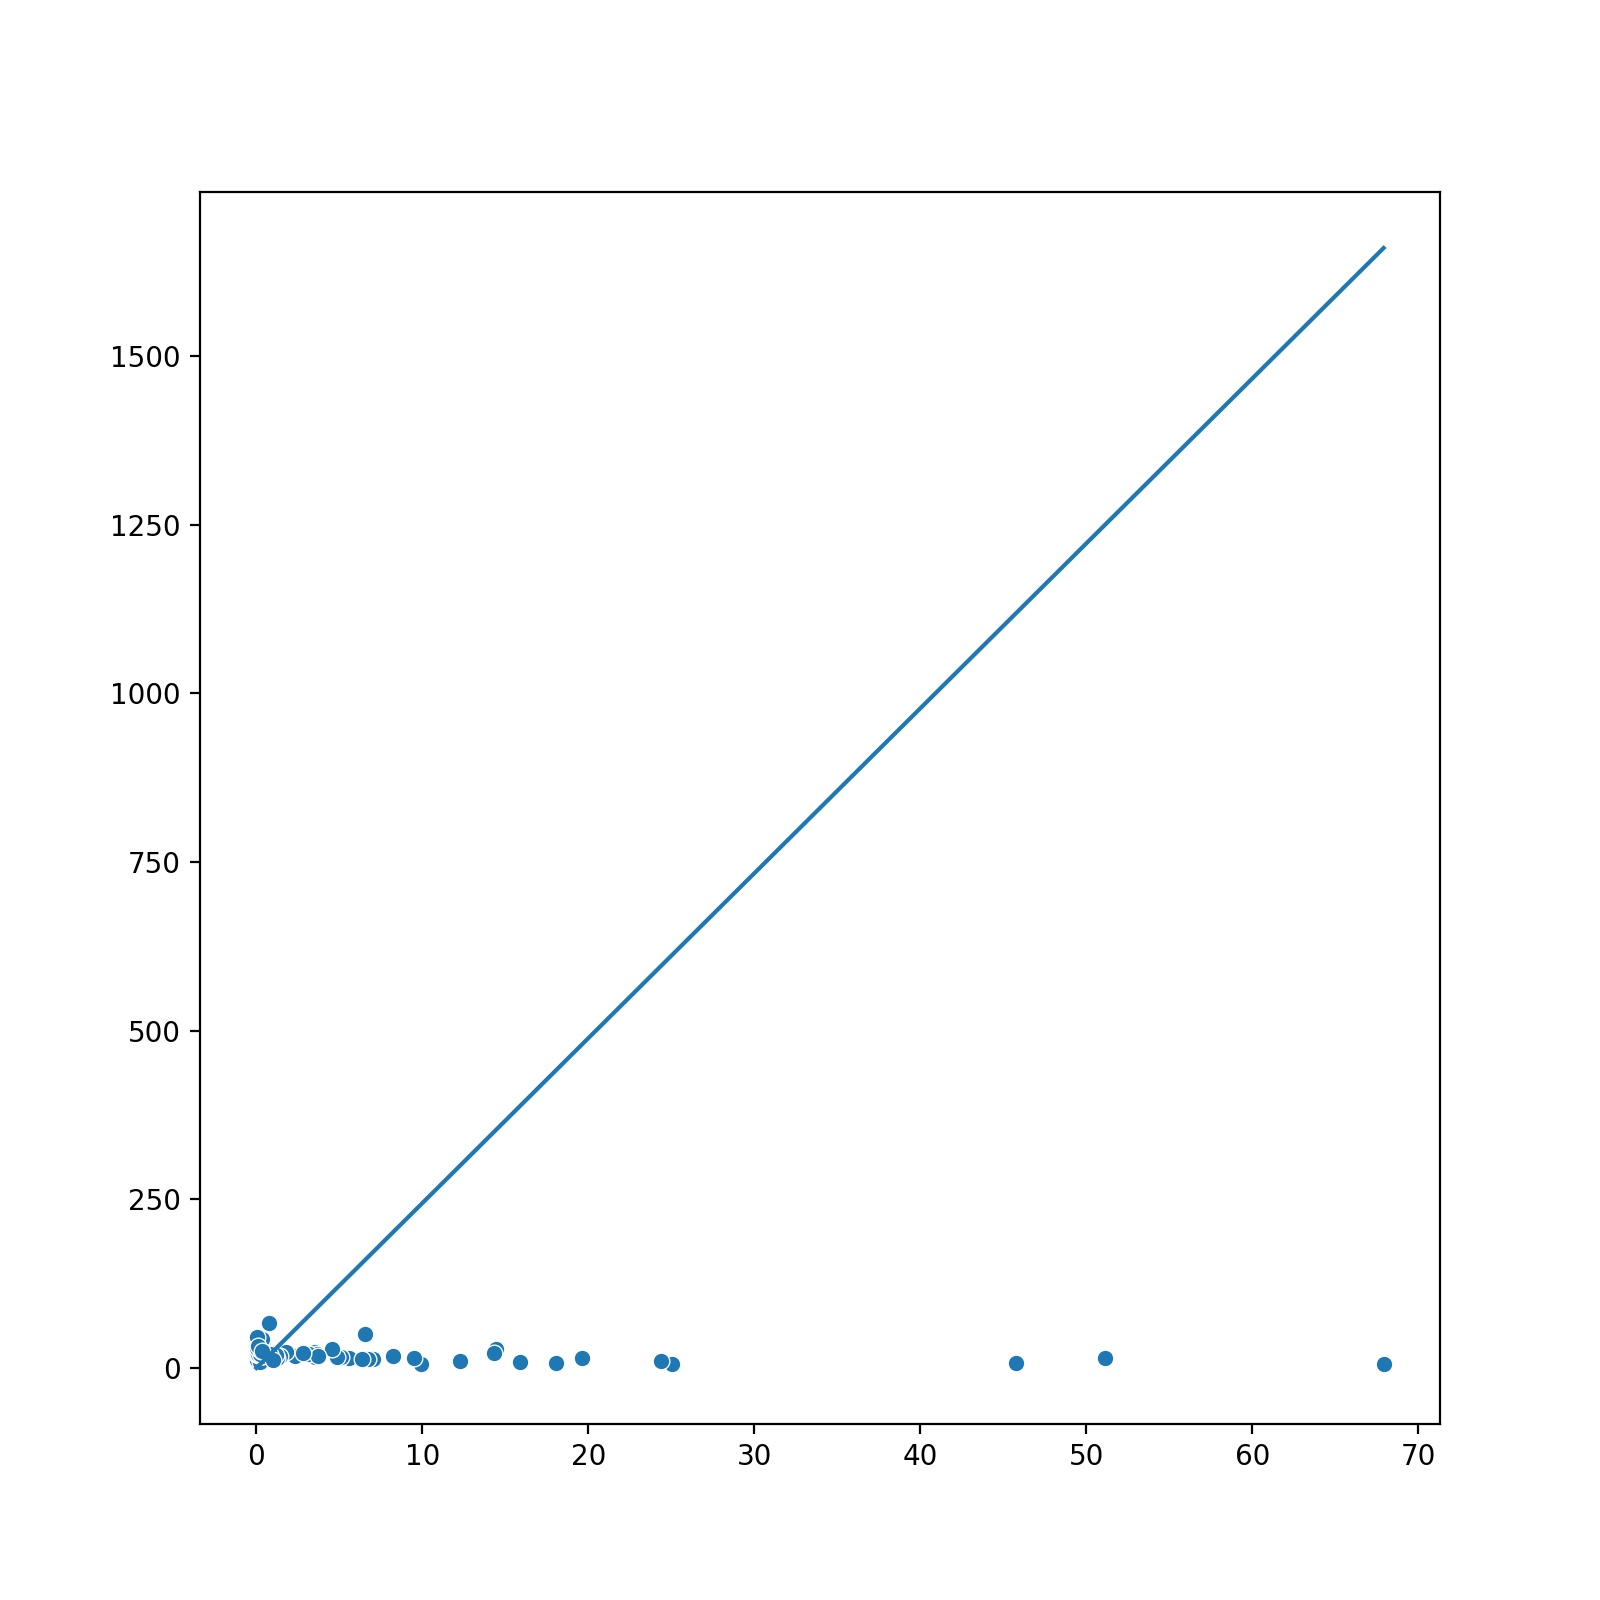
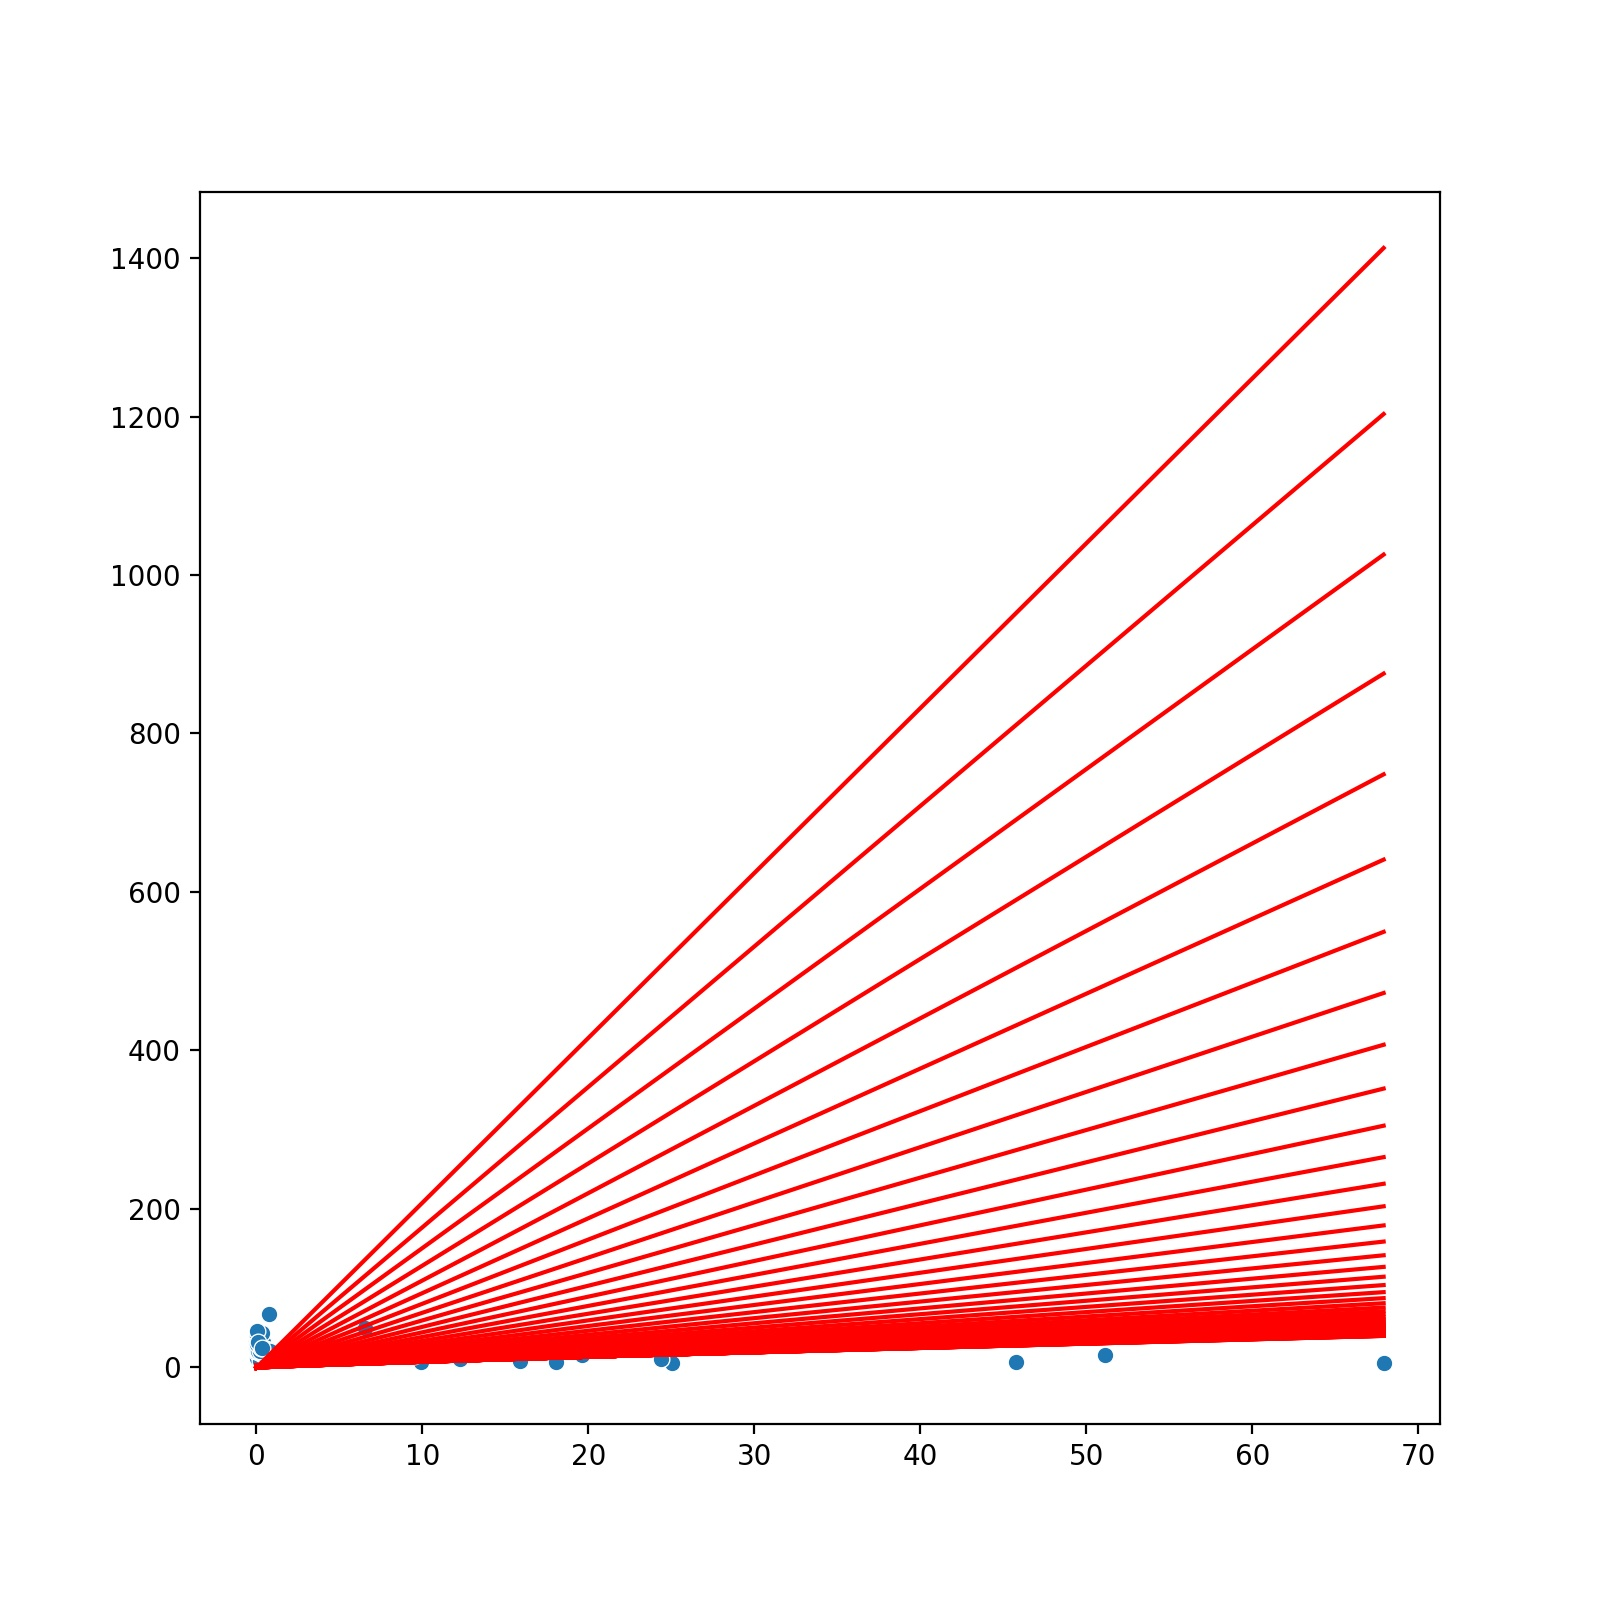
least squre method to linear regression

diff --git a/least squre.py b/least squre.py
@@ -26,14 +26,14 @@ def prediction(x, coefficient, intercept):
 
 if __name__ == '__main__':
     coefficient, intercept = mean_square(x_train, y_train)
-    #
-    # for i in range(100):
-    #     coefficient,intercept = gradient_decent.gradient_decent(x_train,y_train,coefficient,intercept,0.001)
-
-    predictions = prediction(x_test,coefficient,intercept)
     plt.figure(figsize=[8,8],dpi=200)
     sns.scatterplot(x_test,y_test)
-    sns.lineplot(x_test,predictions)
+
+    for i in range(100):
+        coefficient,intercept = gradient_decent.gradient_decent(x_train,y_train,coefficient,intercept,0.001)
+        predictions = prediction(x_test,coefficient,intercept)
+        sns.lineplot(x_test,predictions,color='red')
+
     plt.savefig('uni-varient.jpg')
     plt.show()
     print(coefficient, intercept)
